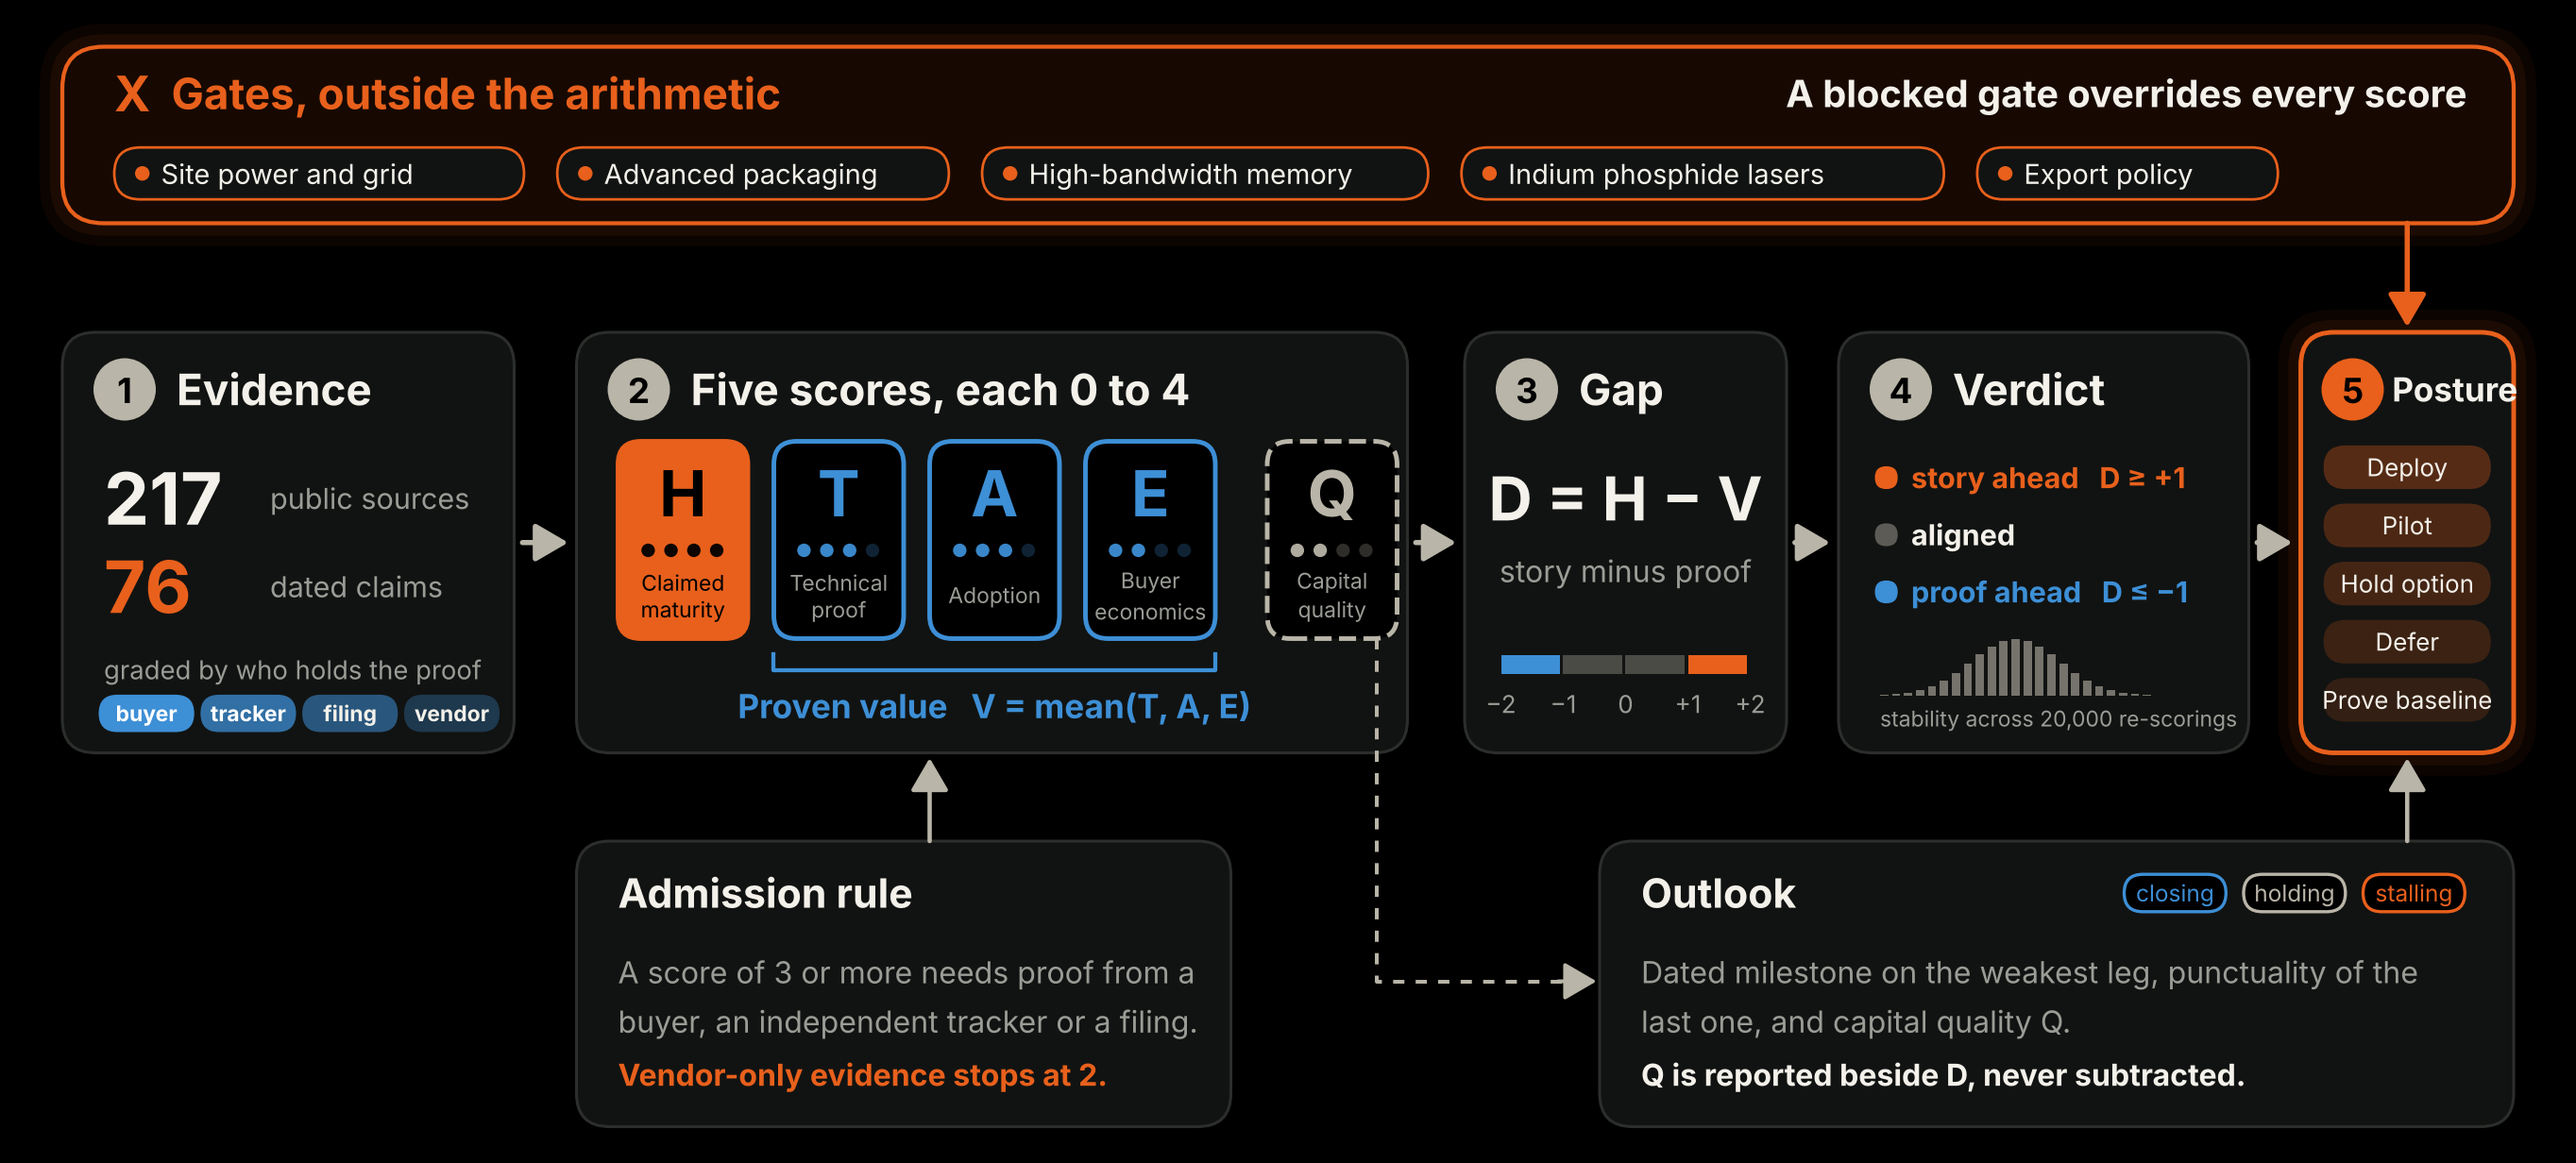
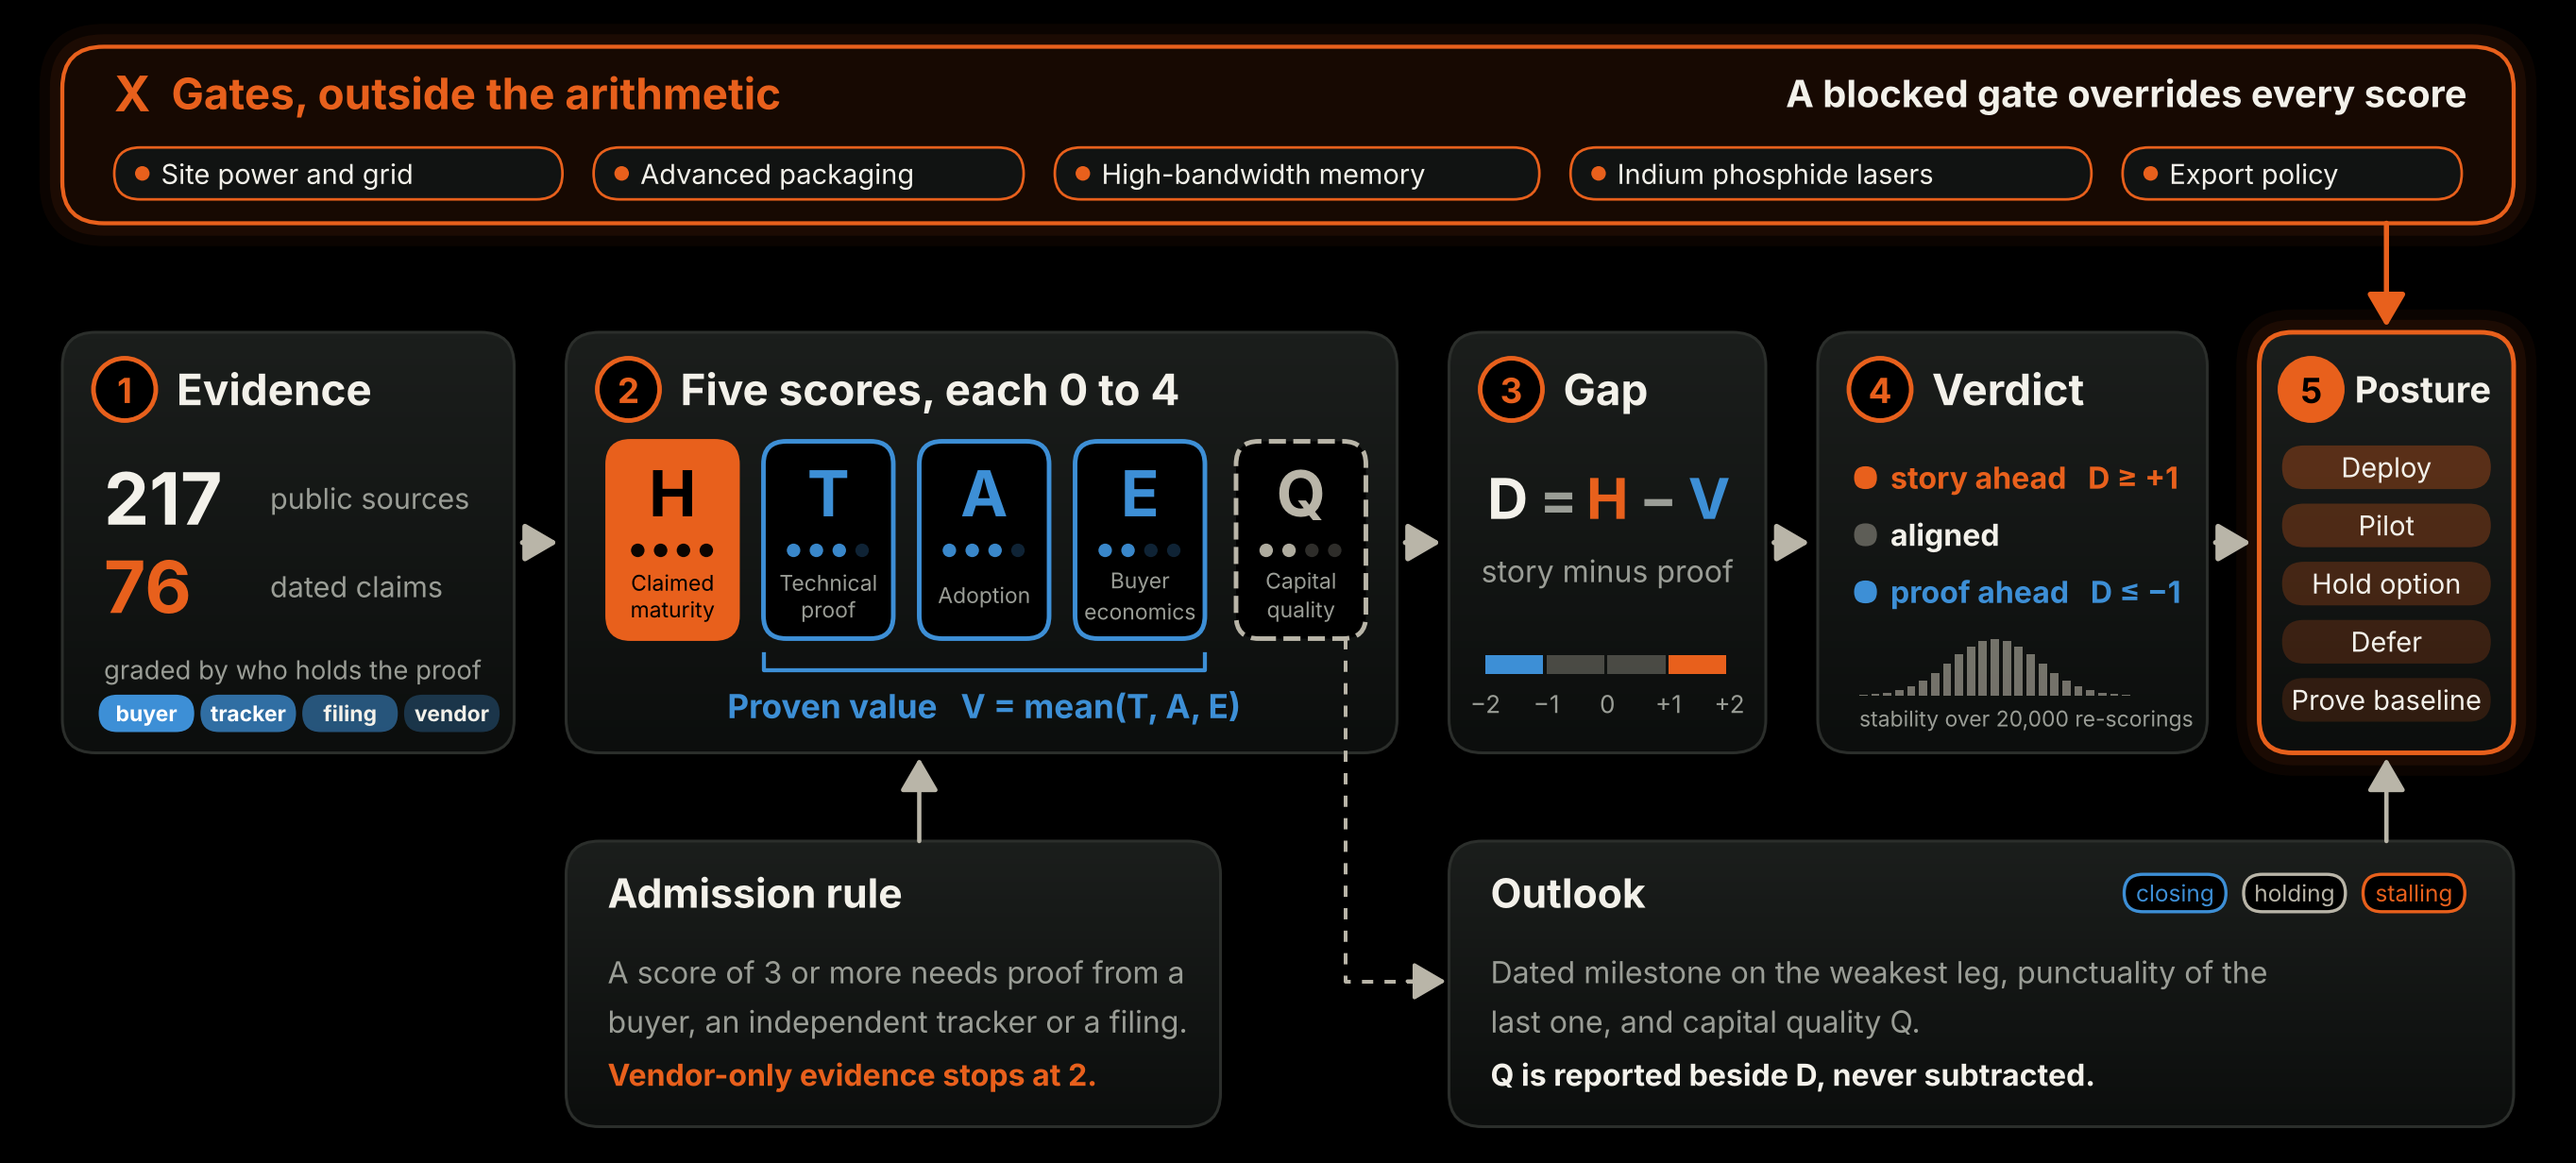
Deck: framework slide alignment and polish

diff --git a/deck-src/make_framework_v5.py b/deck-src/make_framework_v5.py
@@ -7,8 +7,8 @@ from matplotlib.patches import FancyBboxPatch, FancyArrowPatch, Circle, Rectangl
 
 plt.rcParams["font.family"] = "Inter"
 PAL = {
-    "dark": dict(bg="#000000", ink="#F3F1EA", mut="#9A9D96", card="#111312", edge="#2B2E2B", hot="#E8601C", cool="#3D8FD6", mid="#B9B5A8", glow=0.10),
-    "light": dict(bg="#FFFFFF", ink="#141414", mut="#5A5A5A", card="#F6F5F1", edge="#DAD8D0", hot="#C24E12", cool="#2A6FB0", mid="#8A867A", glow=0.07),
+    "dark": dict(bg="#000000", ink="#F3F1EA", mut="#9A9D96", card="#111312", edge="#2B2E2B", hot="#E8601C", cool="#3D8FD6", mid="#B9B5A8", glow=0.10, top="#1B1E1C", bot="#0C0E0D"),
+    "light": dict(bg="#FFFFFF", ink="#141414", mut="#5A5A5A", card="#F6F5F1", edge="#DAD8D0", hot="#C24E12", cool="#2A6FB0", mid="#8A867A", glow=0.07, top="#FBFAF7", bot="#EFEDE6"),
 }
 W, H = 24.8, 11.2
 
@@ -27,12 +27,22 @@ def draw(mode, out):
             for k, a in ((0.22, 0.05), (0.12, 0.08)):
                 ax.add_patch(FancyBboxPatch((x - k, y - k), w + 2 * k, h + 2 * k, boxstyle=f"round,pad=0,rounding_size={r + k}",
                                             fc=glow, ec="none", alpha=a))
-        ax.add_patch(FancyBboxPatch((x, y), w, h, boxstyle=f"round,pad=0,rounding_size={r}", fc=fill or c["card"],
+        pb = FancyBboxPatch((x, y), w, h, boxstyle=f"round,pad=0,rounding_size={r}", fc=fill or c["card"],
+                            ec="none", lw=0)
+        ax.add_patch(pb)
+        if fill is None:
+            from matplotlib.colors import LinearSegmentedColormap
+            cm = LinearSegmentedColormap.from_list("g", [c["bot"], c["top"]])
+            im = ax.imshow(np.linspace(0, 1, 64)[:, None], extent=(x, x + w, y, y + h), origin="lower", cmap=cm,
+                           aspect="auto", zorder=pb.get_zorder())
+            im.set_clip_path(pb)
+        ax.add_patch(FancyBboxPatch((x, y), w, h, boxstyle=f"round,pad=0,rounding_size={r}", fc="none",
                                     ec=edge or c["edge"], lw=lw))
 
     def badge(x, y, n, col):
-        ax.add_patch(Circle((x, y), 0.3, fc=col, ec="none"))
-        T(x, y - 0.01, str(n), 12, c["bg"], "bold", ha="center", va="center")
+        solid = col == c["hot"]
+        ax.add_patch(Circle((x, y), 0.3, fc=col if solid else c["bg"], ec=c["hot"], lw=1.6))
+        T(x, y - 0.01, str(n), 12, c["bg"] if solid else c["hot"], "bold", ha="center", va="center")
 
     def arrow(p, q, col, lw=1.6, cs="arc3", ls="-"):
         ax.add_patch(FancyArrowPatch(p, q, arrowstyle="-|>,head_length=6,head_width=3.5", mutation_scale=1.6, color=col,
@@ -45,13 +55,16 @@ def draw(mode, out):
     T(1.65, 10.3, "Gates, outside the arithmetic", 15, c["hot"], "bold", va="center")
     T(23.75, 10.3, "A blocked gate overrides every score", 13, c["ink"], "bold", va="center", ha="right")
     gates = ["Site power and grid", "Advanced packaging", "High-bandwidth memory", "Indium phosphide lasers", "Export policy"]
+    gap = 0.3
+    wds = [0.62 + len(g) * 0.175 for g in gates]
+    extra = (24.2 - 0.5 - 1.1 - sum(wds) - gap * 4) / 5
     x = 1.1
-    for g in gates:
-        wd = 0.62 + len(g) * 0.175
+    for g, wd in zip(gates, wds):
+        wd += extra
         ax.add_patch(FancyBboxPatch((x, 9.28), wd, 0.5, boxstyle="round,pad=0,rounding_size=0.25", fc=c["card"], ec=c["hot"], lw=0.9))
         ax.add_patch(Circle((x + 0.27, 9.53), 0.07, fc=c["hot"], ec="none"))
         T(x + 0.45, 9.525, g, 9.5, c["ink"], va="center")
-        x += wd + 0.32
+        x += wd + gap
 
     yb, hb = 3.95, 4.05
     # 1 evidence
@@ -66,13 +79,13 @@ def draw(mode, out):
         T(xx + 0.46, yb + 0.38, nm, 7.5, "#FFFFFF" if a > 0.6 else c["ink"], "bold", ha="center", va="center")
 
     # 2 five scores
-    x2, w2 = 5.55, 8.0
+    x2, w2 = 5.45, 8.0
     card(x2, yb, w2, hb); badge(x2 + 0.6, yb + hb - 0.55, 2, c["mid"])
     T(x2 + 1.1, yb + hb - 0.55, "Five scores, each 0 to 4", 15, w="bold", va="center")
     tiles = [("H", "Claimed\nmaturity", c["hot"], 4), ("T", "Technical\nproof", c["cool"], 3), ("A", "Adoption", c["cool"], 3),
              ("E", "Buyer\neconomics", c["cool"], 2), ("Q", "Capital\nquality", c["mid"], 2)]
     for k, (L, lab, col, lv) in enumerate(tiles):
-        tx = x2 + 0.4 + k * 1.5 + (0.25 if k == 4 else 0)
+        tx = x2 + 0.4 + k * 1.5 + (0.05 if k == 4 else 0)
         ax.add_patch(FancyBboxPatch((tx, yb + 1.1), 1.25, 1.9, boxstyle="round,pad=0,rounding_size=0.22",
                                     fc=col if k == 0 else c["bg"], ec=col, lw=1.6, alpha=1, ls="--" if k == 4 else "-"))
         T(tx + 0.625, yb + 2.5, L, 22, c["bg"] if k == 0 else col, "bold", ha="center", va="center")
@@ -85,10 +98,12 @@ def draw(mode, out):
     T((bx0 + bx1) / 2, yb + 0.45, "Proven value   V = mean(T, A, E)", 11.5, c["cool"], "bold", ha="center", va="center")
 
     # 3 gap
-    x3, w3 = 14.1, 3.1
+    x3, w3 = 13.95, 3.05
     card(x3, yb, w3, hb); badge(x3 + 0.6, yb + hb - 0.55, 3, c["mid"])
     T(x3 + 1.1, yb + hb - 0.55, "Gap", 15, w="bold", va="center")
-    T(x3 + w3 / 2, yb + 2.45, "D = H − V", 21, w="bold", ha="center", va="center")
+    cxm = x3 + w3 / 2
+    for dx, t, col in ((-0.96, "D", c["ink"]), (-0.47, "=", c["mut"]), (0.0, "H", c["hot"]), (0.49, "−", c["mut"]), (0.98, "V", c["cool"])):
+        T(cxm + dx, yb + 2.45, t, 19.5, col, "bold", ha="center", va="center")
     T(x3 + w3 / 2, yb + 1.75, "story minus proof", 10.5, c["mut"], ha="center", va="center")
     lx0, lx1, ly = x3 + 0.35, x3 + w3 - 0.35, yb + 0.85
     seg = (lx1 - lx0) / 4
@@ -98,29 +113,29 @@ def draw(mode, out):
         T(lx0 + k * seg, ly - 0.38, t, 8.5, c["mut"], ha="center", va="center")
 
     # 4 verdict
-    x4, w4 = 17.7, 3.95
+    x4, w4 = 17.5, 3.75
     card(x4, yb, w4, hb); badge(x4 + 0.6, yb + hb - 0.55, 4, c["mid"])
     T(x4 + 1.1, yb + hb - 0.55, "Verdict", 15, w="bold", va="center")
     for k, (txt, col, a) in enumerate((("story ahead   D ≥ +1", c["hot"], 1), ("aligned", c["mid"], 0.45), ("proof ahead   D ≤ −1", c["cool"], 1))):
         yy = yb + 2.65 - k * 0.55
         ax.add_patch(FancyBboxPatch((x4 + 0.35, yy - 0.11), 0.22, 0.22, boxstyle="round,pad=0,rounding_size=0.11", fc=col, ec="none", alpha=a))
-        T(x4 + 0.7, yy, txt, 10, col if a == 1 else c["ink"], "bold", va="center")
+        T(x4 + 0.7, yy, txt, 10.5, col if a == 1 else c["ink"], "bold", va="center")
     xs = np.linspace(-2.2, 2.2, 23)
     for k, v in enumerate(xs):
         hgt = 0.55 * np.exp(-v * v / 1.1)
         ax.add_patch(Rectangle((x4 + 0.4 + k * 0.115, yb + 0.55), 0.08, hgt, fc=c["mid"], ec="none", alpha=0.6))
     T(x4 + 3.15, yb + 0.85, "stability:\nshare of\n20,000\nre-scorings", 8, c["mut"], ha="right", va="center", linespacing=1.05) if False else None
-    T(x4 + 0.4, yb + 0.33, "stability across 20,000 re-scorings", 7.5, c["mut"], va="center")
+    T(x4 + 0.4, yb + 0.33, "stability over 20,000 re-scorings", 7.5, c["mut"], va="center")
 
     # 5 posture
-    x5, w5 = 22.15, 2.05
+    x5, w5 = 21.75, 2.45
     card(x5, yb, w5, hb, edge=c["hot"], lw=1.6, glow=c["hot"]); badge(x5 + 0.5, yb + hb - 0.55, 5, c["hot"])
-    T(x5 + 0.88, yb + hb - 0.55, "Posture", 11.5, w="bold", va="center")
+    T(x5 + 0.92, yb + hb - 0.55, "Posture", 12.5, w="bold", va="center")
     for k, nm in enumerate(["Deploy", "Pilot", "Hold option", "Defer", "Prove baseline"]):
         yy = yb + 2.75 - k * 0.56
         ax.add_patch(FancyBboxPatch((x5 + 0.22, yy - 0.21), w5 - 0.44, 0.42, boxstyle="round,pad=0,rounding_size=0.21",
                                     fc=c["hot"], ec="none", alpha=0.16 + 0.04 * (4 - k)))
-        T(x5 + w5 / 2, yy, nm, 8.5, c["ink"], ha="center", va="center")
+        T(x5 + w5 / 2, yy, nm, 9.5, c["ink"], ha="center", va="center")
 
     # flow arrows
     ym = yb + hb / 2
@@ -134,7 +149,7 @@ def draw(mode, out):
     T(x2 + 0.4, 2.05, "A score of 3 or more needs proof from a\nbuyer, an independent tracker or a filing.", 10.5, c["mut"], va="top", linespacing=1.35)
     T(x2 + 0.4, 0.85, "Vendor-only evidence stops at 2.", 10.5, c["hot"], "bold", va="center")
     arrow((x2 + 3.4, 3.1), (x2 + 3.4, yb - 0.05), c["mid"], 1.5)
-    x6 = 15.4
+    x6 = x3
     card(x6, 0.35, 24.2 - x6, 2.75)
     T(x6 + 0.4, 2.6, "Outlook", 14, w="bold", va="center")
     T(x6 + 0.4, 2.05, "Dated milestone on the weakest leg, punctuality of the\nlast one, and capital quality Q.", 10.5, c["mut"], va="top", linespacing=1.35)
@@ -143,7 +158,7 @@ def draw(mode, out):
         ax.add_patch(FancyBboxPatch((24.2 - 3.75 + k * 1.15, 2.42), 0.98, 0.36, boxstyle="round,pad=0,rounding_size=0.18",
                                     fc=c["bg"], ec=(c["cool"], c["mid"], c["hot"])[k], lw=1.1))
         T(24.2 - 3.75 + 0.49 + k * 1.15, 2.6, nm, 8, (c["cool"], c["mid"], c["hot"])[k], ha="center", va="center")
-    qx = x2 + 0.4 + 4 * 1.5 + 0.25 + 1.05
+    qx = x2 + 0.4 + 4 * 1.5 + 0.05 + 1.05
     ax.plot([qx, qx, x6 - 0.15], [yb + 1.1, 1.75, 1.75], color=c["mid"], lw=1.3, ls=(0, (3, 3)))
     arrow((x6 - 0.4, 1.75), (x6 - 0.03, 1.75), c["mid"], 1.3)
     arrow((x5 + w5 / 2, 3.1), (x5 + w5 / 2, yb - 0.05), c["mid"], 1.5)
